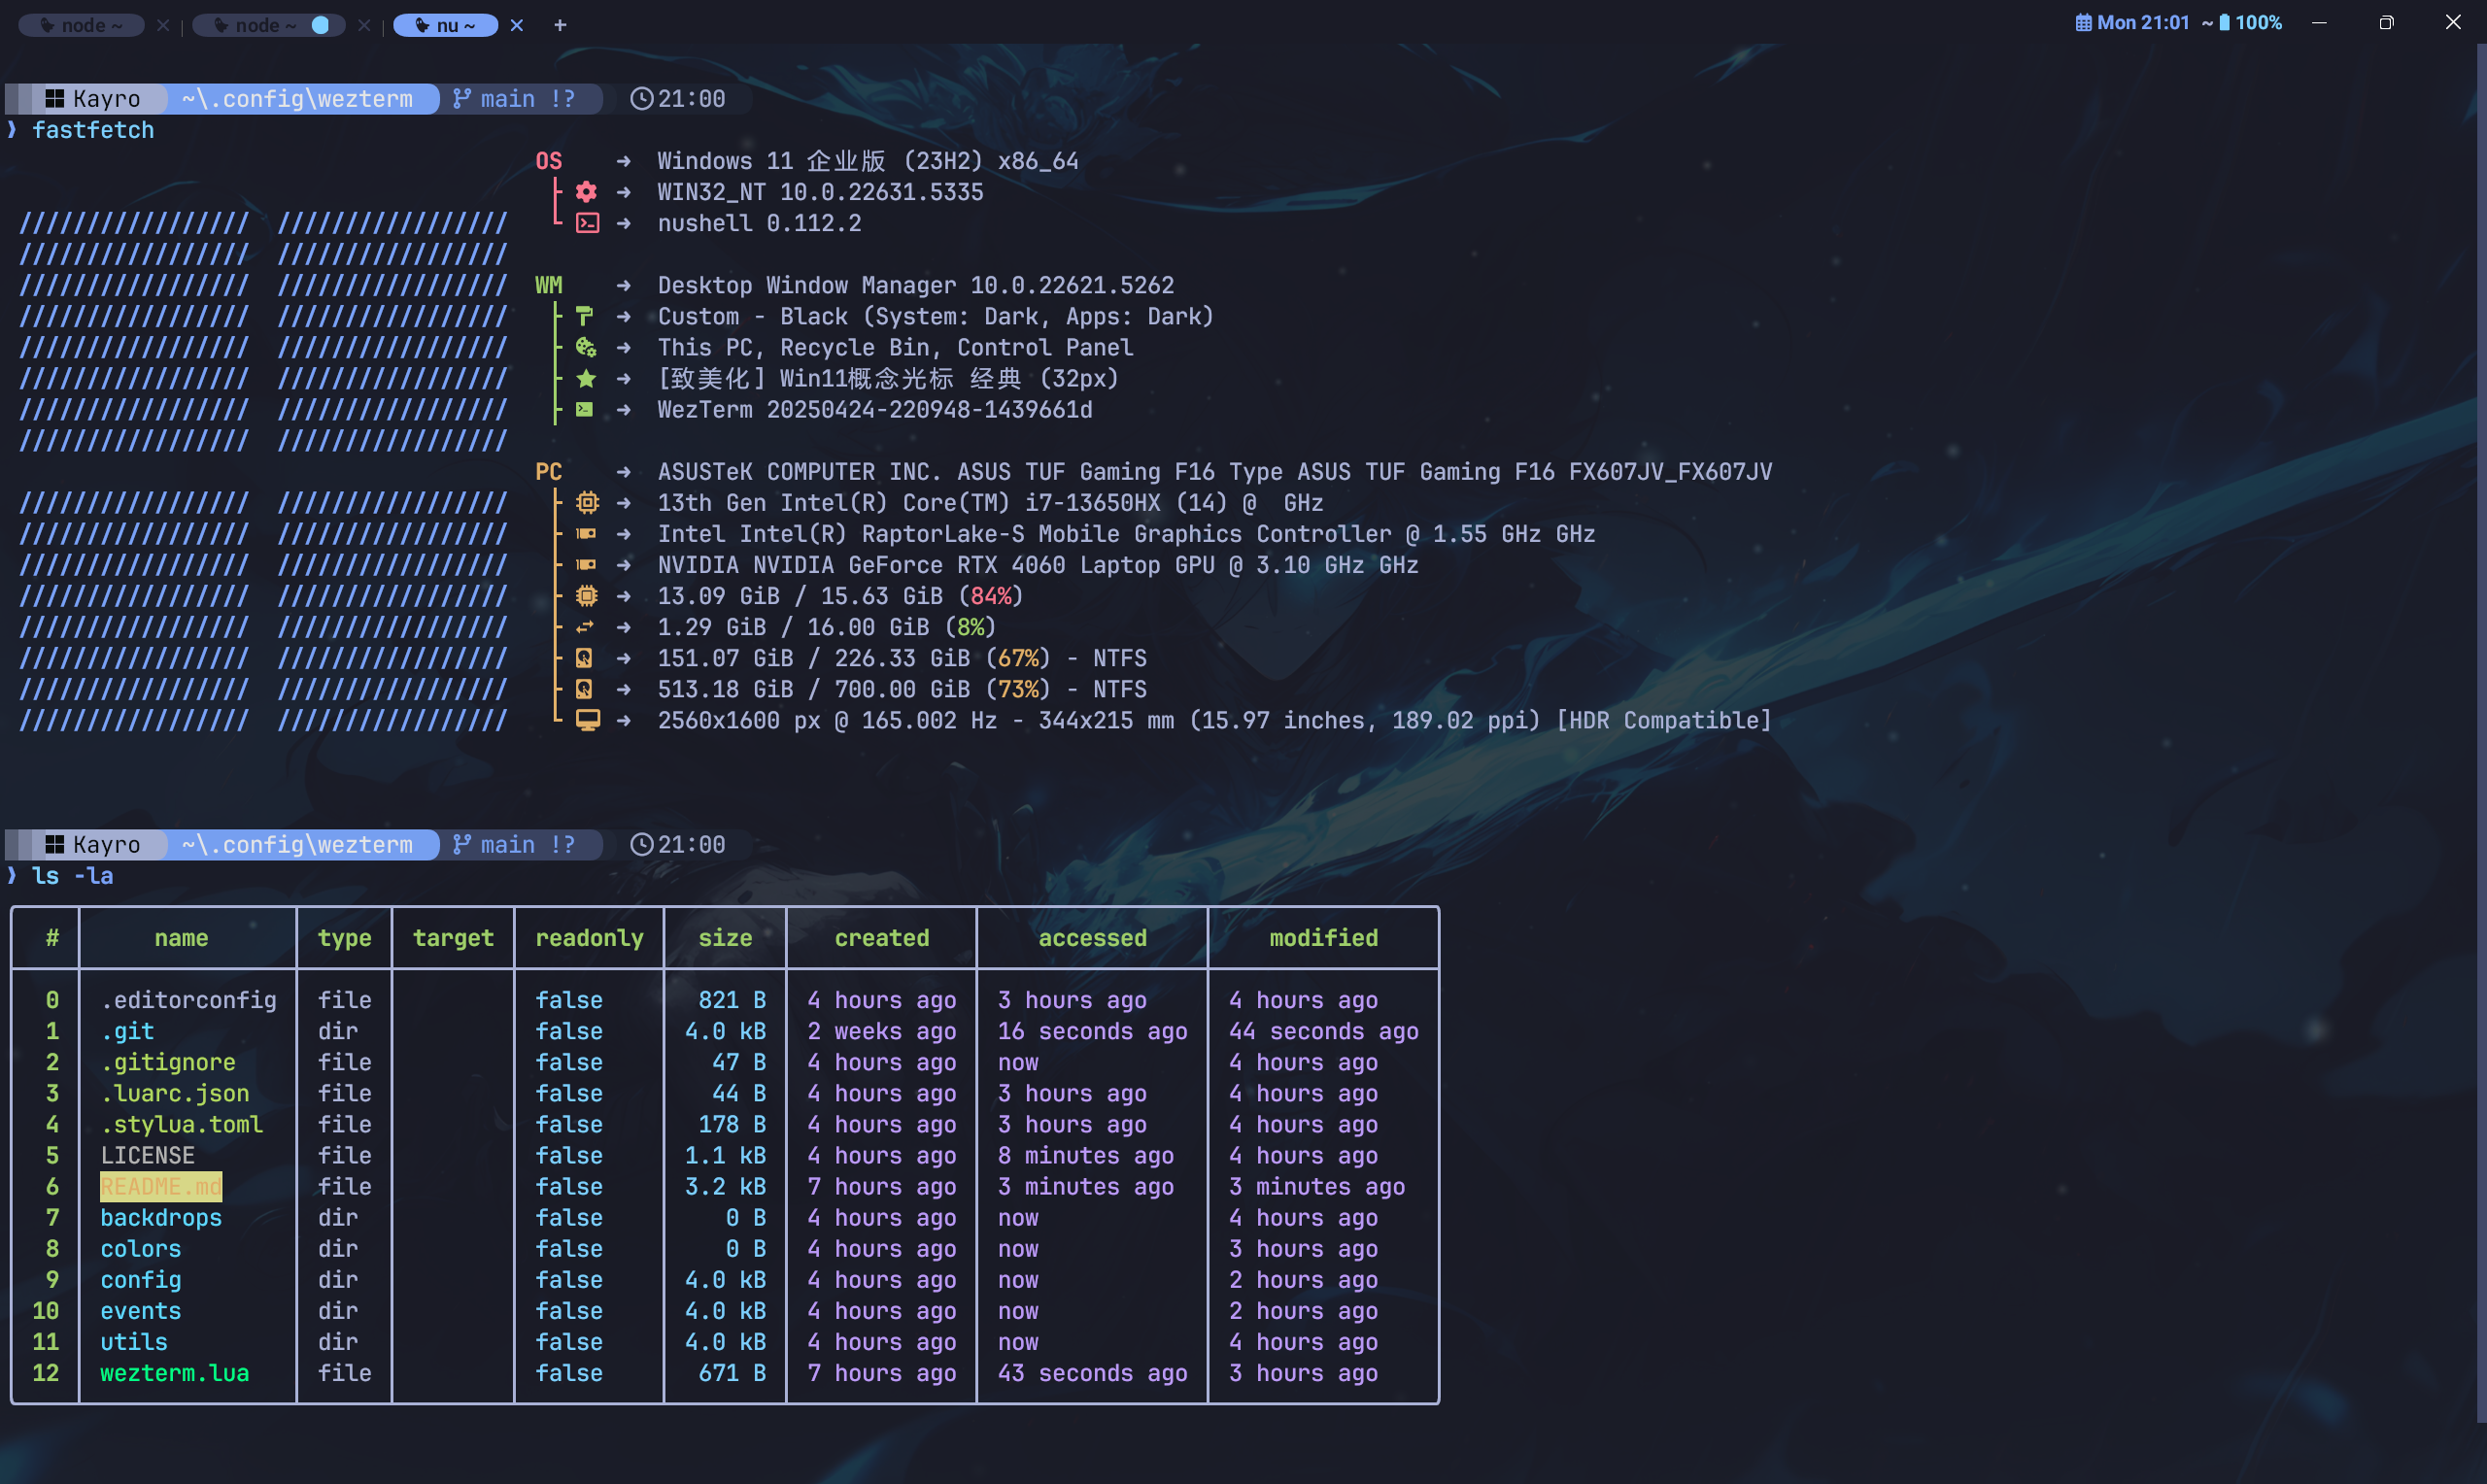
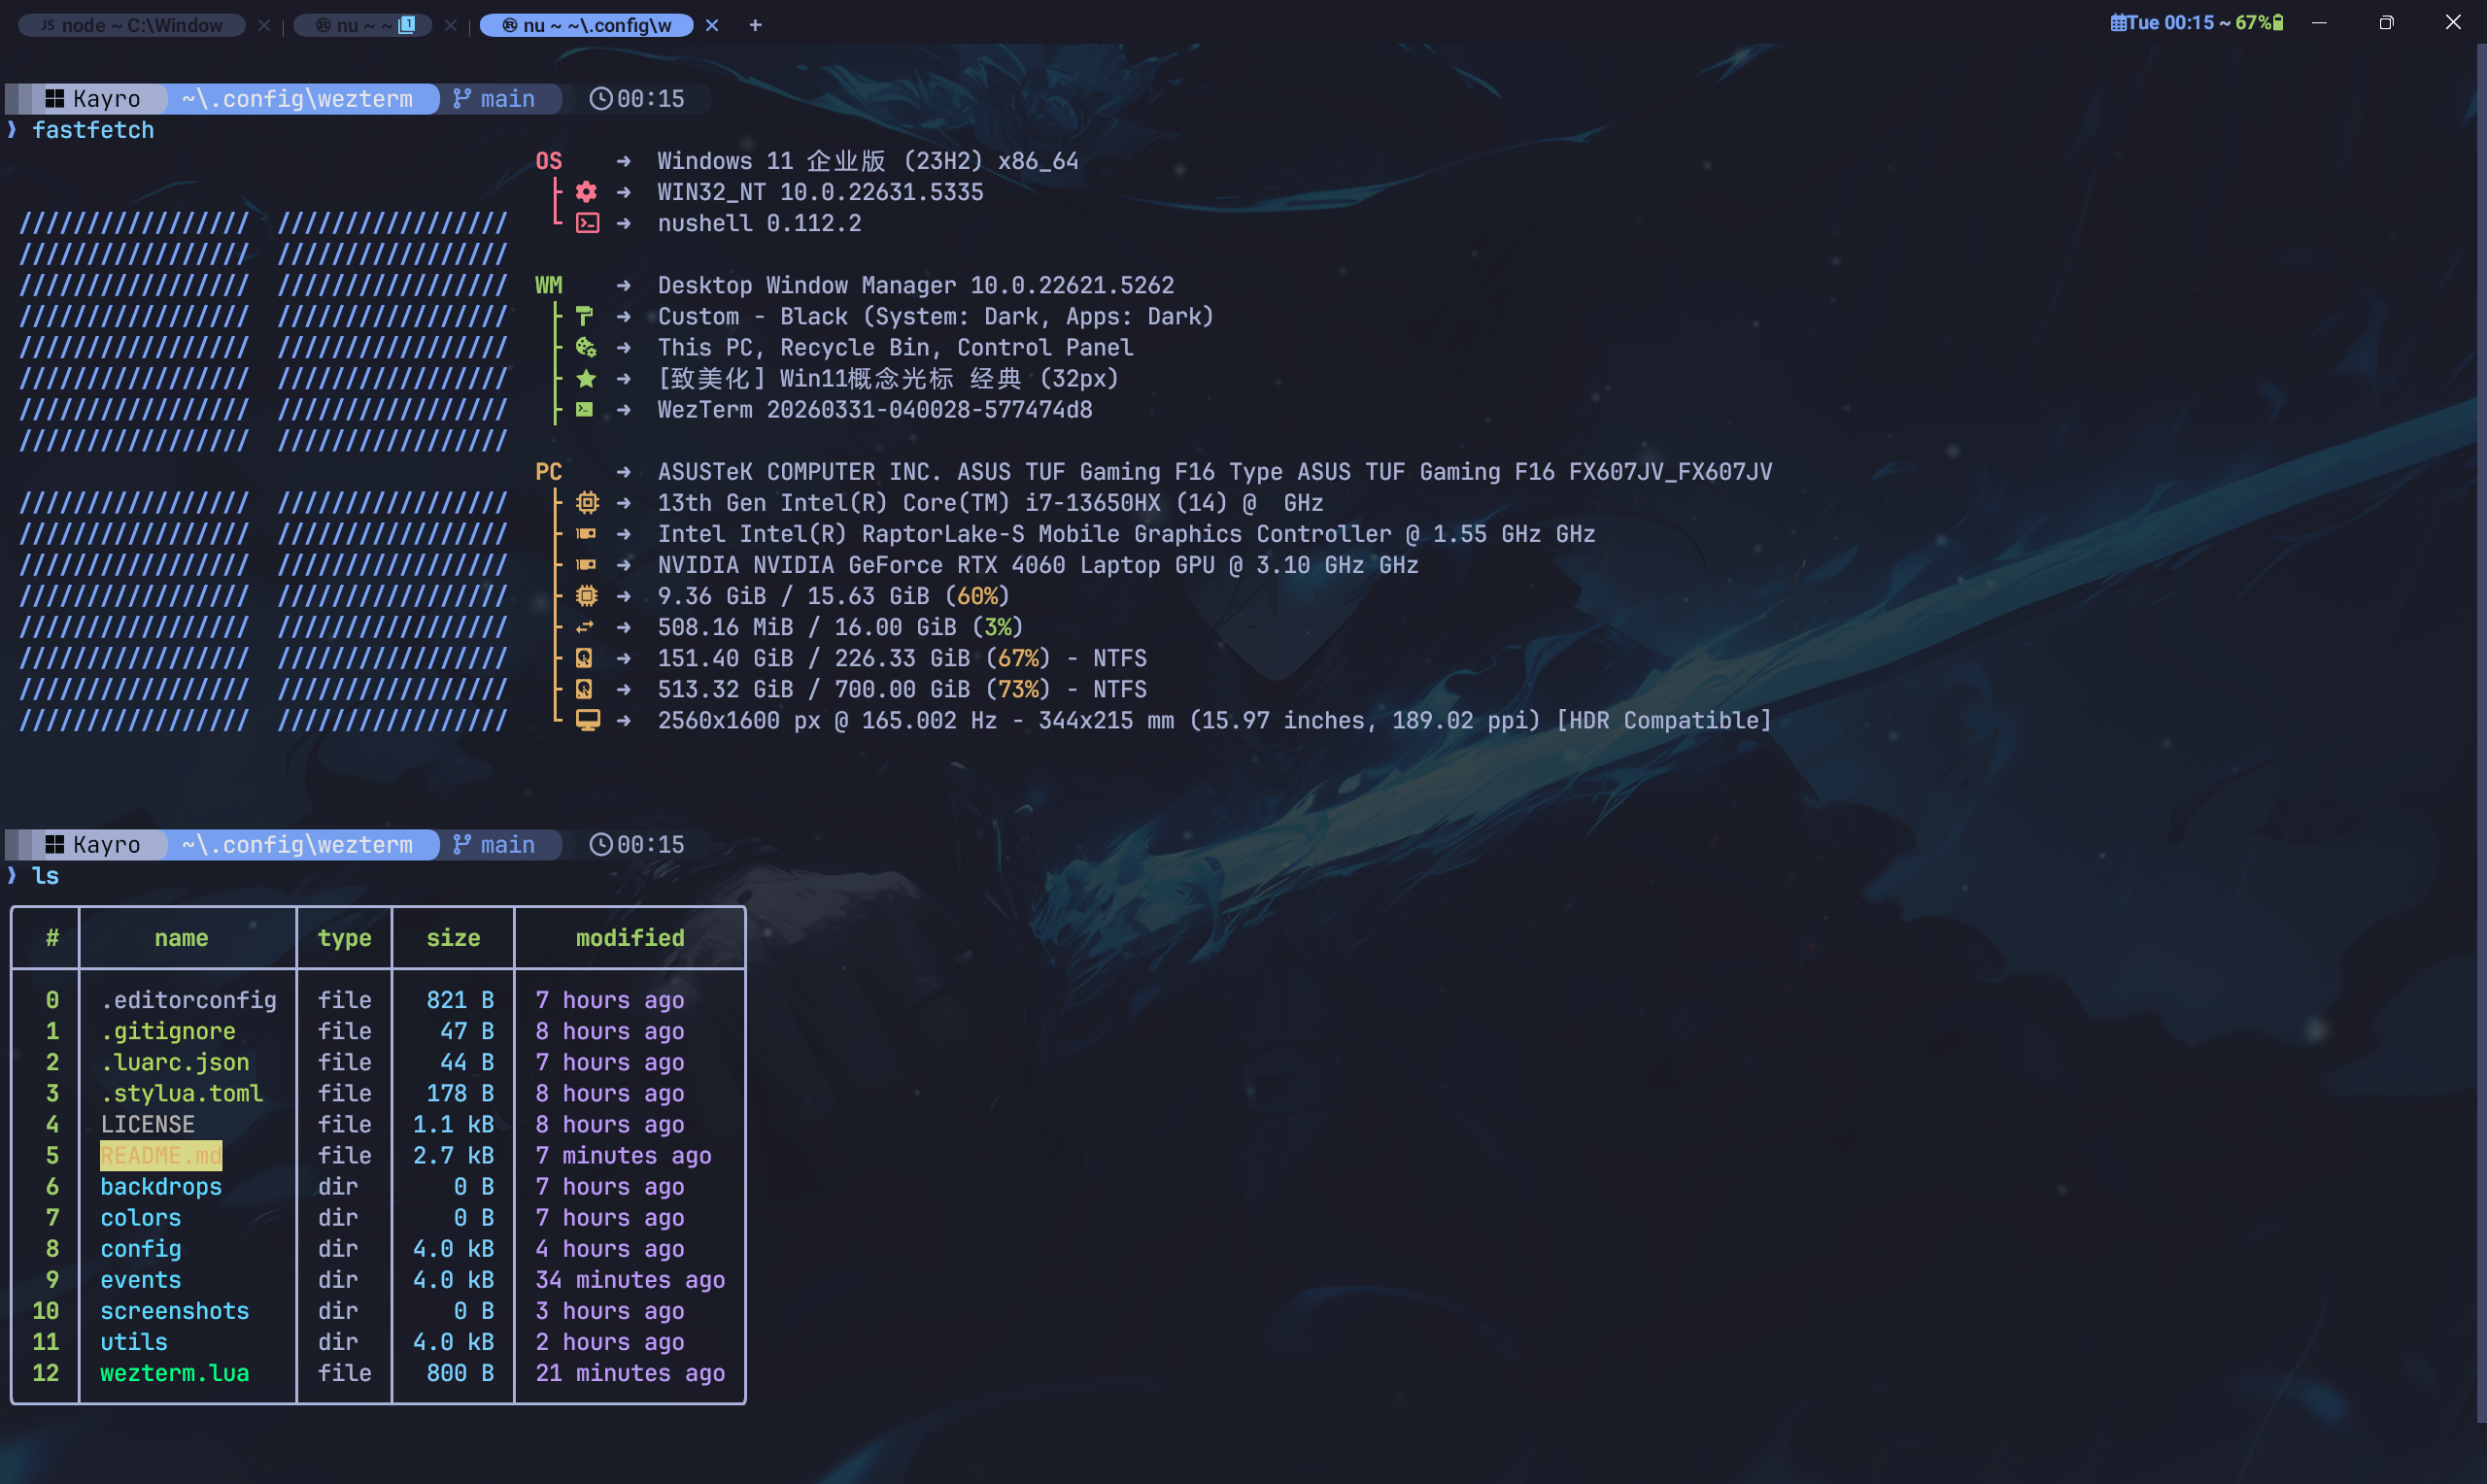
fix: 修复进度泄漏、新增编号圆环、改进标题宽度计算等
- progress_stale 内存泄漏：每5分钟清理过期条目
- ICON_UNSEEN 新增 numbered_circle 系列图标
- pct_to_frame(0) 越界修复：math.max(1, floor(...))
- create_title 改用 wezterm.column_width 兼容宽字符
- right-status 无电池时只显示日期
- left-status key table 和 leader 改为 elseif 互斥

diff --git a/README.md b/README.md
@@ -26,7 +26,7 @@ screenshots/             ← 截图
 
 ## 前提条件
 
-- [![WezTerm](https://img.shields.io/badge/WezTerm-download-blue)](https://wezterm.org/installation.html)
+- [![WezTerm Nightly](https://img.shields.io/badge/WezTerm_Nightly-download-blue)](https://wezterm.org/installation.html)
 - [![Nerd Font](https://img.shields.io/badge/JetBrainsMono_NF-download-green)](https://github.com/ryanoasis/nerd-fonts)
 
 ## 使用